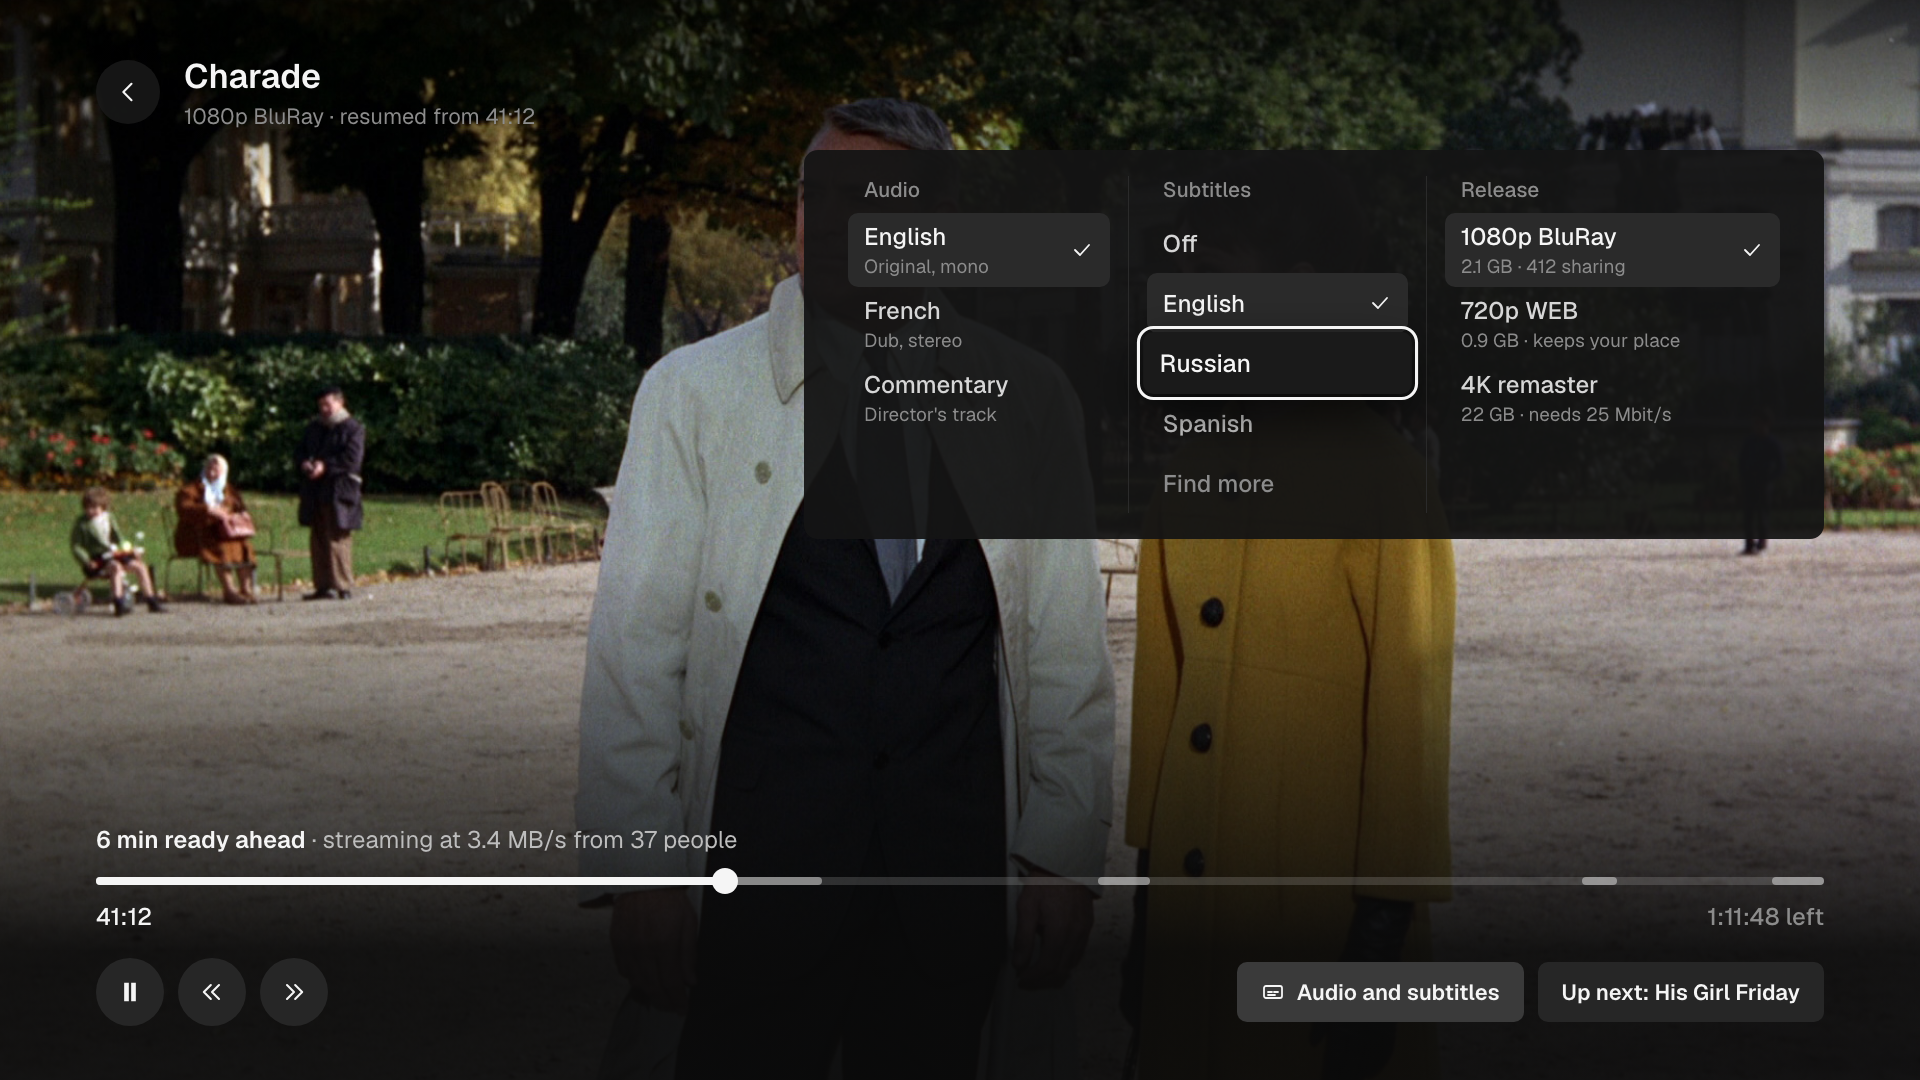
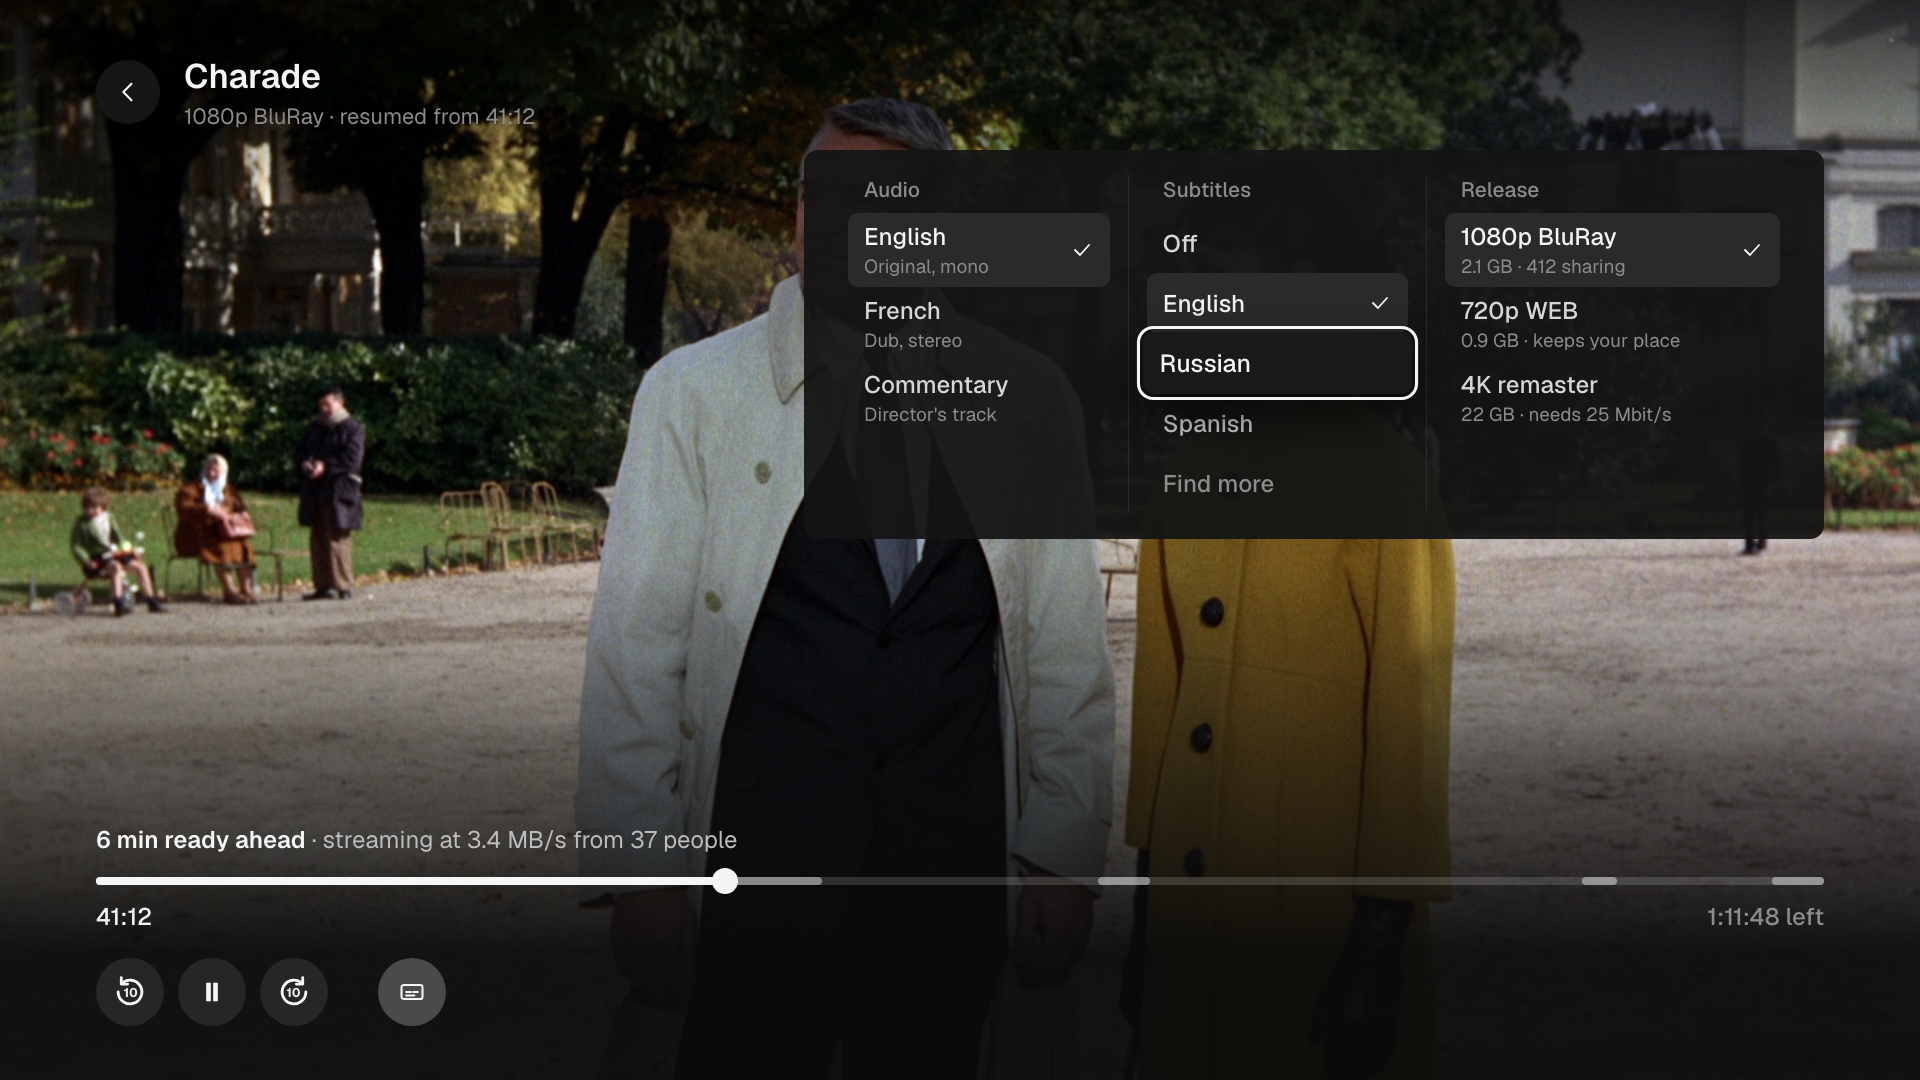
Rework player controls and add the Up next card

Changed region(s): [[0.625, 0.8861, 0.9375, 0.9472], [0.1875, 0.8861, 0.25, 0.9472], [0.0625, 0.9167, 0.0938, 0.9472]]

diff --git a/design/concept/tv-player-end.html b/design/concept/tv-player-end.html
@@ -1,0 +1,55 @@
+<!doctype html>
+<html lang="en">
+<head>
+<meta charset="utf-8">
+<title>reel — TV player, up next</title>
+<link rel="stylesheet" href="minimal.css">
+<style>
+  html, body { width: 1920px; height: 1080px; background: #000; }
+  .frame { position: absolute; inset: 0; background: url(img/still-flash-2.jpg) center 35%/cover; }
+  .shade { position: absolute; inset: 0; background: linear-gradient(270deg, rgba(0,0,0,.6), rgba(0,0,0,0) 45%), linear-gradient(0deg, rgba(0,0,0,.55), rgba(0,0,0,0) 35%); }
+
+  /* the card appears ~40 s before the end (or when the credits start); controls stay hidden */
+  .next { position: absolute; right: 96px; bottom: 96px; width: 720px; padding: 22px; border-radius: 14px; background: rgba(20,20,20,.95); box-shadow: 0 24px 60px rgba(0,0,0,.6); }
+  .next .row { display: flex; gap: 22px; }
+  .next .th { position: relative; width: 256px; height: 144px; border-radius: 8px; overflow: hidden; flex: none; }
+  .next .th img { width: 100%; height: 100%; object-fit: cover; object-position: center 30%; }
+  .next .k { font-size: 21px; color: var(--ash); }
+  .next .t { margin-top: 6px; font-size: 28px; font-weight: 600; line-height: 1.2; }
+  .next .m { margin-top: 8px; font-size: 21px; color: var(--ash); }
+  .next .m b { color: var(--snow); font-weight: 500; }
+  .next .acts { display: flex; gap: 14px; margin-top: 22px; }
+  .next .btn { height: 60px; padding: 0 26px; border-radius: 10px; font-size: 23px; gap: 12px; }
+  .next .btn svg { width: 22px; height: 22px; }
+  /* countdown: a thin bar runs along the bottom of Play now; when it is full the next episode plays */
+  .next .primary { position: relative; overflow: hidden; flex: 1; }
+  .next .primary::before { content: ""; position: absolute; left: 0; bottom: 0; height: 5px; width: 64%; background: var(--ink); opacity: .55; }
+  .next .primary span, .next .primary svg { position: relative; }
+  .next .primary small { position: relative; font-size: 20px; font-weight: 500; color: #555; margin-left: 4px; }
+  .next .focused { transform: scale(1.03); outline-offset: 4px; }
+
+  .progress { position: absolute; left: 0; right: 0; bottom: 0; height: 5px; background: rgba(245,245,245,.16); }
+  .progress i { display: block; height: 100%; width: 97%; background: var(--snow); }
+</style>
+</head>
+<body>
+  <div class="frame"></div><div class="shade"></div>
+
+  <section class="next">
+    <div class="row">
+      <div class="th"><img src="img/still-flash-shannon.jpg" alt=""></div>
+      <div>
+        <div class="k">Next episode · S3:E5</div>
+        <div class="t">The Palace of Terror</div>
+        <div class="m">20 min · <b>first 3 min ready</b>, plays instantly</div>
+      </div>
+    </div>
+    <div class="acts">
+      <div class="btn primary focused"><svg class="f" viewBox="0 0 24 24"><path d="M7 4.5v15l13-7.5z"/></svg><span>Play now</span><small>in 6 s</small></div>
+      <div class="btn secondary">Watch credits</div>
+    </div>
+  </section>
+
+  <div class="progress"><i></i></div>
+</body>
+</html>

diff --git a/design/concept/tv-player.html b/design/concept/tv-player.html
@@ -43,10 +43,11 @@
   .controls { display: flex; align-items: center; gap: 14px; margin-top: 26px; }
   .controls .iconbtn { width: 68px; height: 68px; background: rgba(42,42,42,.85); }
   .controls .iconbtn svg { width: 28px; height: 28px; }
-  .controls .btn { height: 60px; padding: 0 24px; border-radius: 10px; font-size: 22px; gap: 12px; background: rgba(42,42,42,.85); }
-  .controls .btn svg { width: 24px; height: 24px; }
-  .controls .btn.selected { background: #3A3A3A; }
-  .spacer { flex: 1; }
+  .controls .iconbtn svg.skip { width: 38px; height: 38px; }
+  .controls .iconbtn svg text { font: 700 8px var(--font); }
+  .controls .gap { width: 22px; }
+  /* the button whose panel is open: lighter fill, no ring (focus is inside the panel) */
+  .controls .iconbtn.selected { background: #4A4A4A; }
 </style>
 </head>
 <body>
@@ -91,12 +92,11 @@
     </div>
     <div class="times"><span>41:12</span><span>1:11:48 left</span></div>
     <div class="controls">
+      <div class="iconbtn"><svg class="i skip" viewBox="0 0 24 24"><path d="M4.5 12a7.5 7.5 0 1 0 2.2-5.3"/><path d="M6.5 3v4h4"/><text x="12.4" y="15.3" text-anchor="middle" fill="currentColor" stroke="none">10</text></svg></div>
       <div class="iconbtn"><svg class="f" viewBox="0 0 24 24"><path d="M7 4h4v16H7zM13 4h4v16h-4z"/></svg></div>
-      <div class="iconbtn"><svg class="i" viewBox="0 0 24 24"><path d="M11 6L5 12l6 6M18 6l-6 6 6 6"/></svg></div>
-      <div class="iconbtn"><svg class="i" viewBox="0 0 24 24"><path d="M13 6l6 6-6 6M6 6l6 6-6 6"/></svg></div>
-      <div class="spacer"></div>
-      <div class="btn selected"><svg class="i" viewBox="0 0 24 24"><rect x="3" y="6" width="18" height="12" rx="2"/><path d="M7 12h4M13 12h4M7 15h7"/></svg>Audio and subtitles</div>
-      <div class="btn">Up next: His Girl Friday</div>
+      <div class="iconbtn"><svg class="i skip" viewBox="0 0 24 24"><path d="M19.5 12a7.5 7.5 0 1 1-2.2-5.3"/><path d="M17.5 3v4h-4"/><text x="11.6" y="15.3" text-anchor="middle" fill="currentColor" stroke="none">10</text></svg></div>
+      <span class="gap"></span>
+      <div class="iconbtn selected"><svg class="i" viewBox="0 0 24 24"><rect x="3" y="6" width="18" height="12" rx="2"/><path d="M7 12h4M13 12h4M7 15h7"/></svg></div>
     </div>
   </section>
 </body>

diff --git a/design/directions.md b/design/directions.md
@@ -198,7 +198,18 @@ TV: title 76–96, page title 60, section 30, body 26, meta 22–24 (nothing bel
 - **Player**: top-left back + title + "1080p BluRay · resumed from 41:12"; Audio, Subtitles and
   Release in one dark panel (no blur). Bottom: "**6 min ready ahead** · streaming at 3.4 MB/s from
   37 people", the scrubber with watched (`snow`), ready (`snow` 45%) and not loaded yet (`snow` 16%)
-  ranges, times, then controls. No legend under the scrubber.
+  ranges, times, then one control row of round icon buttons: −10 s, play/pause, +10 s and,
+  after a gap, Audio and subtitles. Icon buttons have no visible labels; the focused one shows a
+  small tooltip-style label above it ("Audio and subtitles"). While its panel is open the button
+  stays in the lighter selected fill and focus moves into the panel. No legend under the scrubber,
+  no permanent "Up next" button.
+- **Up next** (`tv-player-end`): for an episode, a card appears bottom-right about 40 s before the
+  end or when the credits start; the rest of the controls stay hidden. It shows the next episode's
+  thumbnail, "Next episode · S3:E5", its title, "20 min · first 3 min ready, plays instantly"
+  (the engine starts fetching it while the card is up), a focused white "Play now · in 6 s" whose
+  countdown runs as a thin bar along its bottom, and "Watch credits", which dismisses the card. Back
+  also dismisses it. For a single film reel recommends nothing: at the credits the player just
+  ends and returns to the film screen.
 
 ## Focus and selected
 
